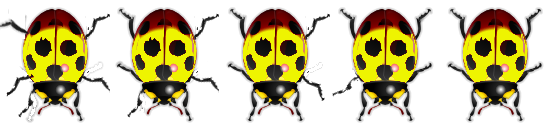
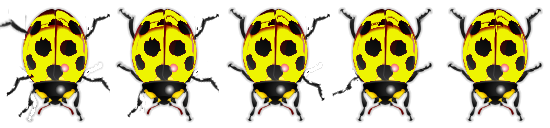
corpses added

diff --git a/cockroach/src/gark/tap/cockroach/unitgroup/UnionUnits1.java b/cockroach/src/gark/tap/cockroach/unitgroup/UnionUnits1.java
@@ -2,21 +2,13 @@ package gark.tap.cockroach.unitgroup;
 
 import gark.tap.cockroach.Config;
 import gark.tap.cockroach.mathengine.MathEngine;
-import gark.tap.cockroach.mathengine.movingobjects.Bug;
 import gark.tap.cockroach.mathengine.movingobjects.CockroachBigAngle;
 import gark.tap.cockroach.mathengine.movingobjects.CockroachCircleEscort;
-import gark.tap.cockroach.mathengine.movingobjects.CockroachDirect;
 import gark.tap.cockroach.mathengine.movingobjects.CockroachFly;
 import gark.tap.cockroach.mathengine.movingobjects.CockroachGreySmall;
 import gark.tap.cockroach.mathengine.movingobjects.CockroachHandsUp;
-import gark.tap.cockroach.mathengine.movingobjects.CockroachLarva;
 import gark.tap.cockroach.mathengine.movingobjects.CockroachMedic;
-import gark.tap.cockroach.mathengine.movingobjects.CockroachSin;
-import gark.tap.cockroach.mathengine.movingobjects.Heart;
-import gark.tap.cockroach.mathengine.movingobjects.LadyBugBig;
 import gark.tap.cockroach.mathengine.movingobjects.LadyBugSmall;
-import gark.tap.cockroach.mathengine.movingobjects.Plane;
-import gark.tap.cockroach.mathengine.movingobjects.Spider;
 import gark.tap.cockroach.units.UnitBot;
 
 import java.lang.reflect.Constructor;
@@ -51,29 +43,29 @@ public class UnionUnits1 extends UnionUnits {
 		UnitBot unitBot = null;
 		try {
 
-			clazz = Class.forName(CockroachSin.class.getName());
-			constructor = clazz.getConstructor(PointF.class, MathEngine.class, Float.class);
-			unitBot = new UnitBot(constructor, new Object[] { new PointF(Config.CAMERA_WIDTH * 0.1f, -100), mathEngine, 0.5f });
-			unitBot.setDelay(2000);
-			cockroachs.add(unitBot);
-
-			clazz = Class.forName(CockroachDirect.class.getName());
-			constructor = clazz.getConstructor(PointF.class, MathEngine.class);
-			unitBot = new UnitBot(constructor, new Object[] { new PointF(Config.CAMERA_WIDTH * 0.1f, -100), mathEngine });
-			unitBot.setDelay(2000);
-			cockroachs.add(unitBot);
-
-			clazz = Class.forName(CockroachDirect.class.getName());
-			constructor = clazz.getConstructor(PointF.class, MathEngine.class);
-			unitBot = new UnitBot(constructor, new Object[] { new PointF(Config.CAMERA_WIDTH * 0.1f, -100), mathEngine });
-			unitBot.setDelay(2000);
-			cockroachs.add(unitBot);
-
-			clazz = Class.forName(CockroachLarva.class.getName());
-			constructor = clazz.getConstructor(PointF.class, MathEngine.class);
-			unitBot = new UnitBot(constructor, new Object[] { new PointF(Config.CAMERA_WIDTH * 0.9f, -100), mathEngine });
-			unitBot.setDelay(2000);
-			cockroachs.add(unitBot);
+//			clazz = Class.forName(CockroachSin.class.getName());
+//			constructor = clazz.getConstructor(PointF.class, MathEngine.class, Float.class);
+//			unitBot = new UnitBot(constructor, new Object[] { new PointF(Config.CAMERA_WIDTH * 0.1f, -100), mathEngine, 0.5f });
+//			unitBot.setDelay(2000);
+//			cockroachs.add(unitBot);
+//
+//			clazz = Class.forName(CockroachDirect.class.getName());
+//			constructor = clazz.getConstructor(PointF.class, MathEngine.class);
+//			unitBot = new UnitBot(constructor, new Object[] { new PointF(Config.CAMERA_WIDTH * 0.1f, -100), mathEngine });
+//			unitBot.setDelay(2000);
+//			cockroachs.add(unitBot);
+//
+//			clazz = Class.forName(CockroachDirect.class.getName());
+//			constructor = clazz.getConstructor(PointF.class, MathEngine.class);
+//			unitBot = new UnitBot(constructor, new Object[] { new PointF(Config.CAMERA_WIDTH * 0.1f, -100), mathEngine });
+//			unitBot.setDelay(2000);
+//			cockroachs.add(unitBot);
+//
+//			clazz = Class.forName(CockroachLarva.class.getName());
+//			constructor = clazz.getConstructor(PointF.class, MathEngine.class);
+//			unitBot = new UnitBot(constructor, new Object[] { new PointF(Config.CAMERA_WIDTH * 0.9f, -100), mathEngine });
+//			unitBot.setDelay(2000);
+//			cockroachs.add(unitBot);
 
 			clazz = Class.forName(LadyBugSmall.class.getName());
 			constructor = clazz.getConstructor(PointF.class, MathEngine.class);
@@ -87,17 +79,17 @@ public class UnionUnits1 extends UnionUnits {
 			unitBot.setDelay(2000);
 			cockroachs.add(unitBot);
 
-			clazz = Class.forName(LadyBugBig.class.getName());
-			constructor = clazz.getConstructor(PointF.class, MathEngine.class);
-			unitBot = new UnitBot(constructor, new Object[] { new PointF(Config.CAMERA_WIDTH * 0.5f, -100), mathEngine });
-			unitBot.setDelay(2000);
-			cockroachs.add(unitBot);
-
-			clazz = Class.forName(Bug.class.getName());
-			constructor = clazz.getConstructor(PointF.class, MathEngine.class);
-			unitBot = new UnitBot(constructor, new Object[] { new PointF(Config.CAMERA_WIDTH * 0.5f, -100), mathEngine });
-			unitBot.setDelay(2000);
-			cockroachs.add(unitBot);
+//			clazz = Class.forName(LadyBugBig.class.getName());
+//			constructor = clazz.getConstructor(PointF.class, MathEngine.class);
+//			unitBot = new UnitBot(constructor, new Object[] { new PointF(Config.CAMERA_WIDTH * 0.5f, -100), mathEngine });
+//			unitBot.setDelay(2000);
+//			cockroachs.add(unitBot);
+//
+//			clazz = Class.forName(Bug.class.getName());
+//			constructor = clazz.getConstructor(PointF.class, MathEngine.class);
+//			unitBot = new UnitBot(constructor, new Object[] { new PointF(Config.CAMERA_WIDTH * 0.5f, -100), mathEngine });
+//			unitBot.setDelay(2000);
+//			cockroachs.add(unitBot);
 
 			clazz = Class.forName(CockroachHandsUp.class.getName());
 			constructor = clazz.getConstructor(PointF.class, MathEngine.class);
@@ -123,23 +115,23 @@ public class UnionUnits1 extends UnionUnits {
 			unitBot.setDelay(2000);
 			cockroachs.add(unitBot);
 
-			clazz = Class.forName(Plane.class.getName());
-			constructor = clazz.getConstructor(PointF.class, MathEngine.class);
-			unitBot = new UnitBot(constructor, new Object[] { new PointF(Config.CAMERA_WIDTH * 0.5f, -100), mathEngine });
-			unitBot.setDelay(2000);
-			cockroachs.add(unitBot);
-
-			clazz = Class.forName(Heart.class.getName());
-			constructor = clazz.getConstructor(PointF.class, MathEngine.class);
-			unitBot = new UnitBot(constructor, new Object[] { new PointF(Config.CAMERA_WIDTH * 0.5f, -100), mathEngine });
-			unitBot.setDelay(2000);
-			cockroachs.add(unitBot);
-
-			clazz = Class.forName(Spider.class.getName());
-			constructor = clazz.getConstructor(PointF.class, MathEngine.class);
-			unitBot = new UnitBot(constructor, new Object[] { new PointF(Config.CAMERA_WIDTH * 0.5f, -100), mathEngine });
-			unitBot.setDelay(2000);
-			cockroachs.add(unitBot);
+//			clazz = Class.forName(Plane.class.getName());
+//			constructor = clazz.getConstructor(PointF.class, MathEngine.class);
+//			unitBot = new UnitBot(constructor, new Object[] { new PointF(Config.CAMERA_WIDTH * 0.5f, -100), mathEngine });
+//			unitBot.setDelay(2000);
+//			cockroachs.add(unitBot);
+//
+//			clazz = Class.forName(Heart.class.getName());
+//			constructor = clazz.getConstructor(PointF.class, MathEngine.class);
+//			unitBot = new UnitBot(constructor, new Object[] { new PointF(Config.CAMERA_WIDTH * 0.5f, -100), mathEngine });
+//			unitBot.setDelay(2000);
+//			cockroachs.add(unitBot);
+//
+//			clazz = Class.forName(Spider.class.getName());
+//			constructor = clazz.getConstructor(PointF.class, MathEngine.class);
+//			unitBot = new UnitBot(constructor, new Object[] { new PointF(Config.CAMERA_WIDTH * 0.5f, -100), mathEngine });
+//			unitBot.setDelay(2000);
+//			cockroachs.add(unitBot);
 
 			clazz = Class.forName(CockroachMedic.class.getName());
 			constructor = clazz.getConstructor(PointF.class, MathEngine.class);

diff --git a/cockroach/src/gark/tap/cockroach/ResourceManager.java b/cockroach/src/gark/tap/cockroach/ResourceManager.java
@@ -67,10 +67,14 @@ public class ResourceManager {
 	private TextureRegion mDeadDefault;
 	private TextureRegion mDeadLarva;
 	private TextureRegion mDeadFly;
+	private TextureRegion mDeadLadyBug;
+	private TextureRegion mDeadLadyBugBig;
+	private TextureRegion mDeadBug;
+	private TextureRegion mDeadGrey;
+	private TextureRegion mDeadSpider;
+
 	private TextureRegion m10;
 	private TextureRegion m25;
-
-	private TextureRegion mStartButton;
 
 	private Sound mSoundOnTap;
 	// private Music mMusic;
@@ -100,14 +104,13 @@ public class ResourceManager {
 		}
 
 		// atlases
-		BitmapTextureAtlas backgroundTextureAtlas = new BitmapTextureAtlas(textureManager, 800, 1280, TextureOptions.BILINEAR_PREMULTIPLYALPHA);
+		BitmapTextureAtlas backgroundTextureAtlas = new BitmapTextureAtlas(textureManager, 640, 1024, TextureOptions.BILINEAR_PREMULTIPLYALPHA);
 		BitmapTextureAtlas cockroachTextureAtlas = new BitmapTextureAtlas(textureManager, 578, 131, TextureOptions.BILINEAR_PREMULTIPLYALPHA);
 		BitmapTextureAtlas cockroachDeadTextureAtlas = new BitmapTextureAtlas(textureManager, 100, 130, TextureOptions.BILINEAR_PREMULTIPLYALPHA);
 		BitmapTextureAtlas resumePauseTextureAtlas = new BitmapTextureAtlas(textureManager, 32, 32, TextureOptions.BILINEAR_PREMULTIPLYALPHA);
 		BitmapTextureAtlas pauseAtlas = new BitmapTextureAtlas(textureManager, 42, 42, TextureOptions.BILINEAR_PREMULTIPLYALPHA);
 		BitmapTextureAtlas heartAtlas = new BitmapTextureAtlas(textureManager, 45, 42, TextureOptions.BILINEAR_PREMULTIPLYALPHA);
 		BitmapTextureAtlas planeAtlas = new BitmapTextureAtlas(textureManager, 113, 100, TextureOptions.BILINEAR_PREMULTIPLYALPHA);
-		BitmapTextureAtlas pauseStartTextureAtlas = new BitmapTextureAtlas(textureManager, 72, 72, TextureOptions.BILINEAR_PREMULTIPLYALPHA);
 		BitmapTextureAtlas subMenuResetTextureAtlas = new BitmapTextureAtlas(textureManager, 200, 50, TextureOptions.BILINEAR_PREMULTIPLYALPHA);
 		BitmapTextureAtlas subMenuQuitTextureAtlas = new BitmapTextureAtlas(textureManager, 200, 50, TextureOptions.BILINEAR_PREMULTIPLYALPHA);
 		BitmapTextureAtlas mFontTexture = new BitmapTextureAtlas(textureManager, 512, 512, TextureOptions.BILINEAR_PREMULTIPLYALPHA);
@@ -130,6 +133,11 @@ public class ResourceManager {
 		BitmapTextureAtlas cockroachLavraAtlas = new BitmapTextureAtlas(textureManager, 578, 131, TextureOptions.BILINEAR_PREMULTIPLYALPHA);
 		BitmapTextureAtlas deadLarvaAtlas = new BitmapTextureAtlas(textureManager, 50, 120, TextureOptions.BILINEAR_PREMULTIPLYALPHA);
 		BitmapTextureAtlas deadFlyAtlas = new BitmapTextureAtlas(textureManager, 130, 140, TextureOptions.BILINEAR_PREMULTIPLYALPHA);
+		BitmapTextureAtlas deadLadyBugSmallAtlas = new BitmapTextureAtlas(textureManager, 62, 70, TextureOptions.BILINEAR_PREMULTIPLYALPHA);
+		BitmapTextureAtlas deadLadyBugBigAtlas = new BitmapTextureAtlas(textureManager, 90, 102, TextureOptions.BILINEAR_PREMULTIPLYALPHA);
+		BitmapTextureAtlas deadBugAtlas = new BitmapTextureAtlas(textureManager, 144, 156, TextureOptions.BILINEAR_PREMULTIPLYALPHA);
+		BitmapTextureAtlas deadGreyAtlas = new BitmapTextureAtlas(textureManager, 72, 100, TextureOptions.BILINEAR_PREMULTIPLYALPHA);
+		BitmapTextureAtlas deadSpiderAtlas = new BitmapTextureAtlas(textureManager, 110, 148, TextureOptions.BILINEAR_PREMULTIPLYALPHA);
 
 		// menu
 		mMenuResetTextureRegion = BitmapTextureAtlasTextureRegionFactory.createFromAsset(subMenuResetTextureAtlas, baseGameActivity, "menu_reset.png", 0, 0);
@@ -152,11 +160,16 @@ public class ResourceManager {
 
 		// background
 		mRedCross = BitmapTextureAtlasTextureRegionFactory.createFromAsset(redCrossAtlas, baseGameActivity, "red_cross.png", 0, 0);
-		mBackGround = BitmapTextureAtlasTextureRegionFactory.createFromAsset(backgroundTextureAtlas, baseGameActivity, "background_big.jpg", 0, 0);
+		mBackGround = BitmapTextureAtlasTextureRegionFactory.createFromAsset(backgroundTextureAtlas, baseGameActivity, "wood_background.jpg", 0, 0);
 		mDeadDefault = BitmapTextureAtlasTextureRegionFactory.createFromAsset(cockroachDeadTextureAtlas, baseGameActivity, "dead_defaulf.png", 0, 0);
 		mDeadFly = BitmapTextureAtlasTextureRegionFactory.createFromAsset(deadFlyAtlas, baseGameActivity, "dead_fly.png", 0, 0);
 		mDeadLarva = BitmapTextureAtlasTextureRegionFactory.createFromAsset(deadLarvaAtlas, baseGameActivity, "dead_larva.png", 0, 0);
-		mStartButton = BitmapTextureAtlasTextureRegionFactory.createFromAsset(pauseStartTextureAtlas, baseGameActivity, "start_button.png", 0, 0);
+		mDeadLadyBug = BitmapTextureAtlasTextureRegionFactory.createFromAsset(deadLadyBugSmallAtlas, baseGameActivity, "lady_bug_small.png", 0, 0);
+		mDeadLadyBugBig = BitmapTextureAtlasTextureRegionFactory.createFromAsset(deadLadyBugBigAtlas, baseGameActivity, "lady_bug_big.png", 0, 0);
+		mDeadBug = BitmapTextureAtlasTextureRegionFactory.createFromAsset(deadBugAtlas, baseGameActivity, "dead_bug.png", 0, 0);
+		mDeadGrey = BitmapTextureAtlasTextureRegionFactory.createFromAsset(deadGreyAtlas, baseGameActivity, "dead_grey.png", 0, 0);
+		mDeadSpider = BitmapTextureAtlasTextureRegionFactory.createFromAsset(deadSpiderAtlas, baseGameActivity, "dead_spider.png", 0, 0);
+
 		mHeart = BitmapTextureAtlasTextureRegionFactory.createFromAsset(heartAtlas, baseGameActivity, "red_health.png", 0, 0);
 		m10 = BitmapTextureAtlasTextureRegionFactory.createFromAsset(bonus10Atlas, baseGameActivity, "10.png", 0, 0);
 		m25 = BitmapTextureAtlasTextureRegionFactory.createFromAsset(bonus25Atlas, baseGameActivity, "25.png", 0, 0);
@@ -202,7 +215,6 @@ public class ResourceManager {
 		redCrossAtlas.load();
 		mSpiderAtlas.load();
 		mFontBigTexture.load();
-		pauseStartTextureAtlas.load();
 		heartAtlas.load();
 		planeAtlas.load();
 		bonus10Atlas.load();
@@ -219,11 +231,12 @@ public class ResourceManager {
 		cockroachLavraAtlas.load();
 		deadLarvaAtlas.load();
 		deadFlyAtlas.load();
+		deadLadyBugSmallAtlas.load();
+		deadBugAtlas.load();
+		deadGreyAtlas.load();
+		deadLadyBugBigAtlas.load();
+		deadSpiderAtlas.load();
 
-	}
-
-	public TextureRegion getStartButton() {
-		return mStartButton;
 	}
 
 	public TextureRegion getBackGround() {
@@ -310,10 +323,6 @@ public class ResourceManager {
 		return m25;
 	}
 
-	// public TextureRegion getWasper() {
-	// return wasper;
-	// }
-
 	public TiledTextureRegion getBat() {
 		return mBat;
 	}
@@ -364,6 +373,26 @@ public class ResourceManager {
 
 	public TextureRegion getDeadFly() {
 		return mDeadFly;
+	}
+
+	public TextureRegion getDeadLadyBug() {
+		return mDeadLadyBug;
+	}
+
+	public TextureRegion getDeadBug() {
+		return mDeadBug;
+	}
+
+	public TextureRegion getDeadGrey() {
+		return mDeadGrey;
+	}
+
+	public TextureRegion getDeadLadyBugBig() {
+		return mDeadLadyBugBig;
+	}
+
+	public TextureRegion getDeadSpider() {
+		return mDeadSpider;
 	}
 
 }

diff --git a/cockroach/src/gark/tap/cockroach/LaunchActivity.java b/cockroach/src/gark/tap/cockroach/LaunchActivity.java
@@ -3,8 +3,6 @@ package gark.tap.cockroach;
 import org.andengine.entity.scene.IOnAreaTouchListener;
 import org.andengine.entity.scene.ITouchArea;
 import org.andengine.entity.scene.Scene;
-import org.andengine.entity.scene.background.Background;
-import org.andengine.entity.sprite.Sprite;
 import org.andengine.input.touch.TouchEvent;
 
 import android.content.Intent;
@@ -26,17 +24,17 @@ public class LaunchActivity extends MainActivity implements IOnAreaTouchListener
 
 		// textureRegion.getWidth() / 2
 
-		getScene().setBackground(new Background(0.29f, 0.31f, 0.37f));
-		final Sprite staticObject = new Sprite(mCamera.getCenterX() - mResourceManager.getStartButton().getWidth() / 2, mCamera.getCenterY()
-				- mResourceManager.getStartButton().getHeight() / 2, mResourceManager.getStartButton(), this.getVertexBufferObjectManager()) {
-			@Override
-			public boolean onAreaTouched(TouchEvent pSceneTouchEvent, float pTouchAreaLocalX, float pTouchAreaLocalY) {
-				if (pSceneTouchEvent.isActionDown()) {
-					startActivity(new Intent(LaunchActivity.this, GameActivity.class));
-				}
-				return super.onAreaTouched(pSceneTouchEvent, pTouchAreaLocalX, pTouchAreaLocalY);
-			}
-		};
+//		getScene().setBackground(new Background(0.29f, 0.31f, 0.37f));
+//		final Sprite staticObject = new Sprite(mCamera.getCenterX() - mResourceManager.getStartButton().getWidth() / 2, mCamera.getCenterY()
+//				- mResourceManager.getStartButton().getHeight() / 2, mResourceManager.getStartButton(), this.getVertexBufferObjectManager()) {
+//			@Override
+//			public boolean onAreaTouched(TouchEvent pSceneTouchEvent, float pTouchAreaLocalX, float pTouchAreaLocalY) {
+//				if (pSceneTouchEvent.isActionDown()) {
+//					startActivity(new Intent(LaunchActivity.this, GameActivity.class));
+//				}
+//				return super.onAreaTouched(pSceneTouchEvent, pTouchAreaLocalX, pTouchAreaLocalY);
+//			}
+//		};
 		// StaticObject(new PointF(mCamera.getCenterX(), mCamera.getCenterY()),
 		// mResourceManager.getStartButton(),
 		// this.getVertexBufferObjectManager());
@@ -52,8 +50,8 @@ public class LaunchActivity extends MainActivity implements IOnAreaTouchListener
 		// }
 		// };
 
-		getScene().registerTouchArea(staticObject);
-		getScene().attachChild(staticObject);
+		// getScene().registerTouchArea(staticObject);
+		// getScene().attachChild(staticObject);
 		// getScene().setOnAreaTouchListener(this);
 	}
 

diff --git a/cockroach/src/gark/tap/cockroach/mathengine/movingobjects/LadyBugBig.java b/cockroach/src/gark/tap/cockroach/mathengine/movingobjects/LadyBugBig.java
@@ -16,6 +16,7 @@ public class LadyBugBig extends MovingObject {
 	public LadyBugBig(PointF point, MathEngine mathEngine) {
 		super(point, mathEngine.getResourceManager().getLagyBug(), mathEngine);
 		mMainSprite.animate(animationSpeed);
+		corpse = mathEngine.getResourceManager().getDeadLadyBugBig();
 		mMainSprite.setScale(0.75f * Config.SCALE);
 		moving = 200;
 		scoreValue = 0;
@@ -40,7 +41,7 @@ public class LadyBugBig extends MovingObject {
 
 		setY(posY() + distance);
 		setX(posX() + xDistance);
-		
+
 		if (posX() < 0)
 			setX(Math.abs(posX()));
 
@@ -64,7 +65,7 @@ public class LadyBugBig extends MovingObject {
 	}
 
 	@Override
-	public void removeObject(final MovingObject object,  final Scene mScenePlayArea, final MathEngine mathEngine) {
+	public void removeObject(final MovingObject object, final Scene mScenePlayArea, final MathEngine mathEngine) {
 		mathEngine.getLevelManager().getStackUnitsForRemove().add(this);
 		mathEngine.getGameActivity().runOnUpdateThread(new Runnable() {
 

diff --git a/cockroach/src/gark/tap/cockroach/mathengine/movingobjects/Spider.java b/cockroach/src/gark/tap/cockroach/mathengine/movingobjects/Spider.java
@@ -18,6 +18,7 @@ public class Spider extends MovingObject {
 	public Spider(PointF point, MathEngine mathEngine) {
 		super(point, mathEngine.getResourceManager().getSpider(), mathEngine);
 		setHealth(2);
+		corpse = mathEngine.getResourceManager().getDeadSpider();
 		touches = Arrays.asList(TouchEvent.ACTION_DOWN);
 		mMainSprite.animate(animationSpeed);
 		mMainSprite.setScale(1.5f * Config.SCALE);

diff --git a/cockroach/src/gark/tap/cockroach/mathengine/movingobjects/LadyBugSmall.java b/cockroach/src/gark/tap/cockroach/mathengine/movingobjects/LadyBugSmall.java
@@ -15,6 +15,7 @@ public class LadyBugSmall extends MovingObject {
 
 	public LadyBugSmall(PointF point, MathEngine mathEngine) {
 		super(point, mathEngine.getResourceManager().getLagySmall(), mathEngine);
+		corpse = mathEngine.getResourceManager().getDeadLadyBug();
 		mMainSprite.animate(animationSpeed);
 		scoreValue = 0;
 		mMainSprite.setScale(0.5f * Config.SCALE);

diff --git a/cockroach/src/gark/tap/cockroach/mathengine/movingobjects/CockroachGreySmall.java b/cockroach/src/gark/tap/cockroach/mathengine/movingobjects/CockroachGreySmall.java
@@ -13,6 +13,7 @@ public class CockroachGreySmall extends MovingObject {
 	public CockroachGreySmall(PointF point, MathEngine mathEngine) {
 		super(point, mathEngine.getResourceManager().getGreyCockroach(), mathEngine);
 		mMainSprite.animate(animationSpeed);
+		corpse = mathEngine.getResourceManager().getDeadGrey();
 		setMoving(400f);
 		moving = 200;
 

diff --git a/cockroach/src/gark/tap/cockroach/mathengine/movingobjects/Bug.java b/cockroach/src/gark/tap/cockroach/mathengine/movingobjects/Bug.java
@@ -20,6 +20,7 @@ public class Bug extends MovingObject {
 		super(point, mathEngine.getResourceManager().getBug(), mathEngine);
 		mMainSprite.animate(animationSpeed / 2);
 		scoreValue = 0;
+		corpse = mathEngine.getResourceManager().getDeadBug();
 		touches = Arrays.asList(TouchEvent.ACTION_DOWN);
 		moving = 200;
 
